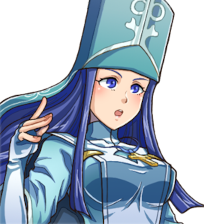
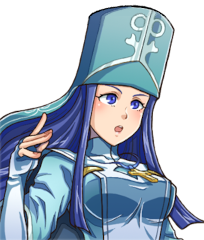
fix busts with cutoffs at top (#7)

diff --git a/Bust Config.rb b/Bust Config.rb
@@ -213,7 +213,7 @@ Busty::BASE_CONFIG.merge!({
   "Andra" => {
     bust_scale: 0.75,
     face_offset_x: 68,
-    face_offset_y: 47,
+    face_offset_y: 63,
   },
   "Luanell" => {
     bust_scale: 0.81,
@@ -254,7 +254,7 @@ Busty::BASE_CONFIG.merge!({
   "Antiala" => {
     bust_scale: 0.75,
     face_offset_x: 69,
-    face_offset_y: 50,
+    face_offset_y: 66,
   },
   "Balia" => {
     bust_scale: 0.75,
@@ -296,7 +296,7 @@ Busty::BASE_CONFIG.merge!({
   "Dio" => { # Lustlord
     bust_scale: 0.75,
     face_offset_x: 26,
-    face_offset_y: 36,
+    face_offset_y: 52,
   },
   "Donovan" => {
     bust_scale: 0.75,
@@ -387,7 +387,7 @@ Busty::BASE_CONFIG.merge!({
   "Herin" => {
     bust_scale: 0.75,
     face_offset_x: 54,
-    face_offset_y: 58,
+    face_offset_y: 74,
     face_z: -1,
   },
   "Hester" => {
@@ -695,12 +695,12 @@ Busty::BASE_CONFIG.merge!({
   "Zelica" => {
     bust_scale: 0.75,
     face_offset_x: 78,
-    face_offset_y: 66,
+    face_offset_y: 106,
   },
   "Incubus Emperor" => {
     bust_scale: 0.75,
     face_offset_x: 41,
-    face_offset_y: 23,
+    face_offset_y: 39,
     face_border_width: 1,
   },
   "Lord of Blood" => {
@@ -738,7 +738,7 @@ Busty::BASE_CONFIG.merge!({
   "Orcent priest" => {
     bust_scale: 0.727272,
     face_offset_x: 61,
-    face_offset_y: 18,
+    face_offset_y: 34,
   },
   "Orcent slave" => {
     bust_scale: 0.727272,
